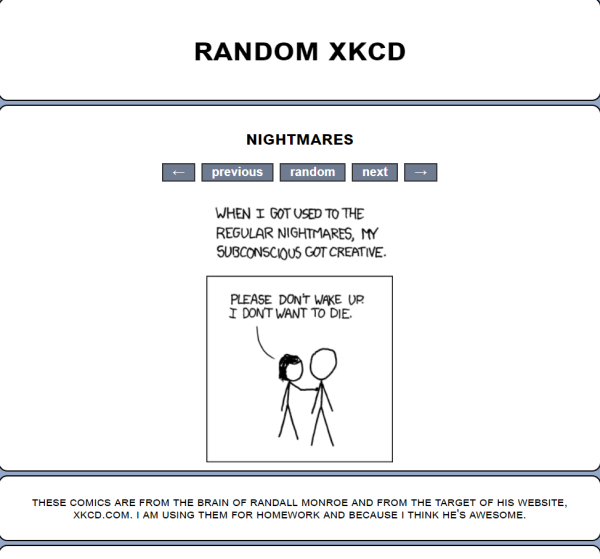
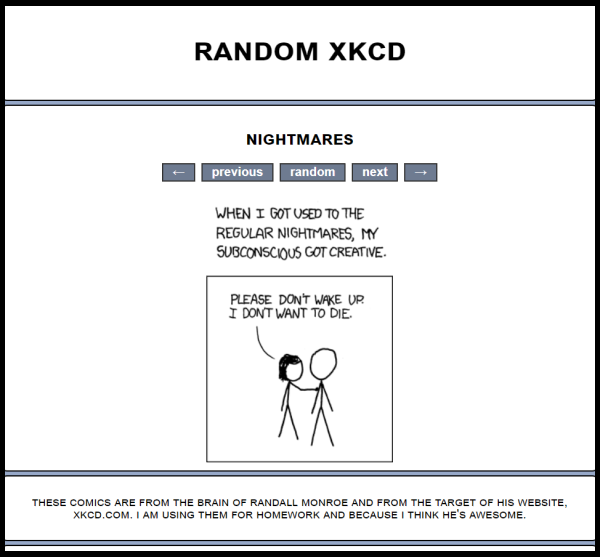
changed picture in README

Changed region(s): [[0.0, 0.0, 1.0, 1.0]]

diff --git a/src/index.css b/src/index.css
@@ -61,8 +61,3 @@ button {
   margin: 0 4px;
   text-decoration: none;
 }
-
-.be-smaller {
-  max-width: 60%;
-  max-height: auto;
-}

diff --git a/README.md b/README.md
@@ -1,6 +1,6 @@
 # Random XKCD Comic
 
-<img className="be-smaller" src="./src/images/RandomXKCD.png">
+<img src="./src/images/SmallRandomXKCD.png">
 
 This page randomizes and displays an XKCD comic. This project allowed for individualized progress to meet the following objectives:
 
